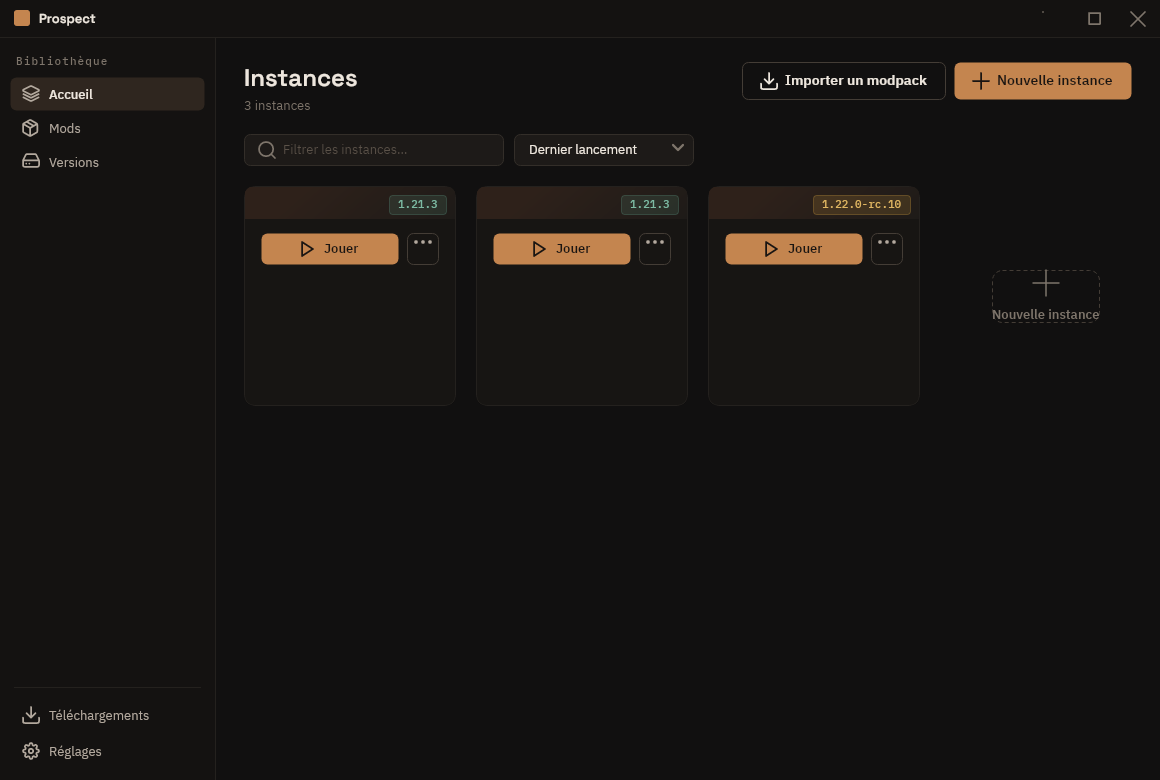
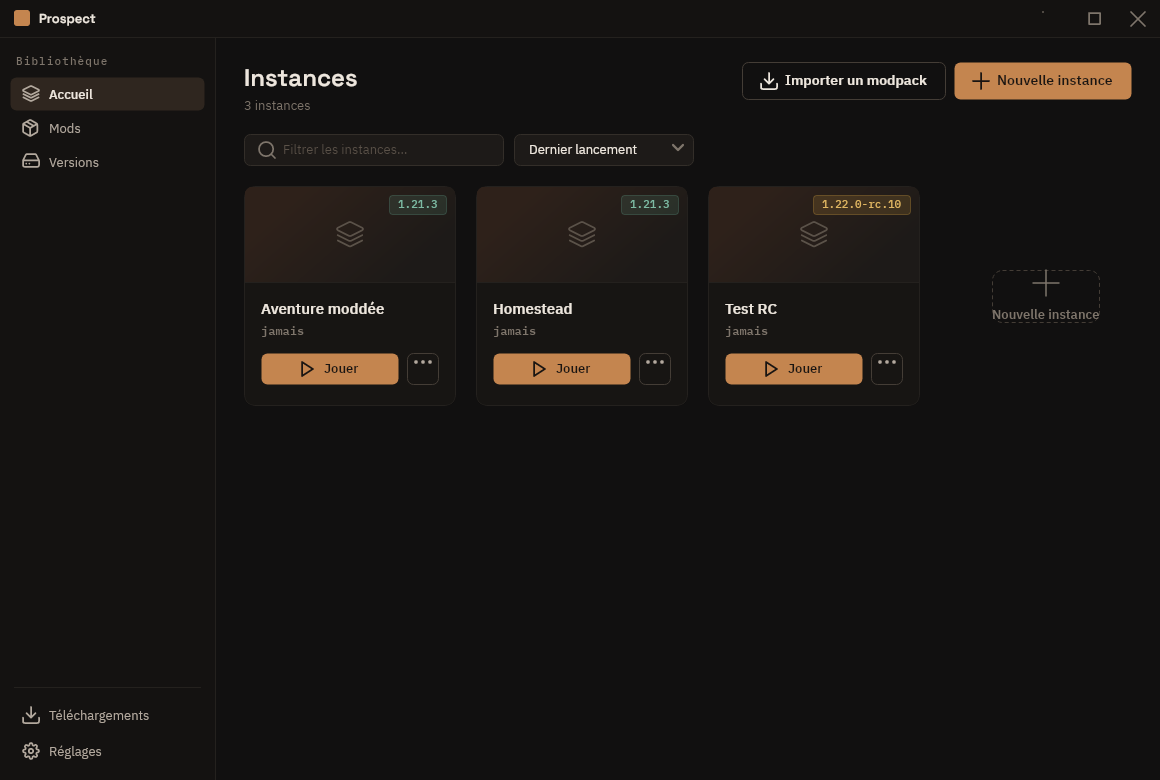
feat: theme-aware gallery with a native lightbox and refreshed captures

diff --git a/src/styles/custom.css b/src/styles/custom.css
@@ -921,3 +921,89 @@ a.card,
 :root[data-theme='light'] .pr-theme-toggle__moon {
 	display: block;
 }
+
+/* ────────────────────────────────────────────────────────────────────────
+   7. Galerie à deux thèmes et lightbox.
+   Chaque capture existe en sombre et en clair ; le CSS n'affiche que la
+   variante du thème courant (les images cachées, en lazy, ne se chargent
+   pas). Le clic ouvre le <dialog> natif : voile aux tokens, fermeture par
+   bouton, Échap ou clic sur le voile.
+   ──────────────────────────────────────────────────────────────────────── */
+
+.pr-shot__button {
+	display: block;
+	width: 100%;
+	padding: 0;
+	border: none;
+	background: transparent;
+	cursor: zoom-in;
+}
+.pr-shot__button:focus-visible {
+	outline: 2px solid var(--border-focus);
+	outline-offset: 2px;
+	border-radius: var(--radius-md);
+}
+/* Double classe volontaire : il faut battre la spécificité de `.pr-gallery img`
+   et `.pr-lightbox img` (classe + élément) posées plus haut. */
+.pr-shot .pr-shot__img--light,
+.pr-lightbox .pr-shot__img--light {
+	display: none;
+}
+:root[data-theme='light'] .pr-shot .pr-shot__img--dark,
+:root[data-theme='light'] .pr-lightbox .pr-shot__img--dark {
+	display: none;
+}
+:root[data-theme='light'] .pr-shot .pr-shot__img--light,
+:root[data-theme='light'] .pr-lightbox .pr-shot__img--light {
+	display: block;
+}
+
+.pr-lightbox {
+	padding: var(--space-6);
+	border: 1px solid var(--border-subtle);
+	border-radius: var(--radius-lg);
+	background: var(--bg-surface);
+	box-shadow: var(--elev-3);
+	max-width: min(1220px, 94vw);
+}
+.pr-lightbox::backdrop {
+	background: var(--bg-scrim);
+}
+.pr-lightbox img {
+	max-width: 100%;
+	max-height: 78vh;
+	border-radius: var(--radius-sm);
+}
+.pr-lightbox__caption {
+	margin: var(--space-5) 0 0;
+	text-align: center;
+	color: var(--text-3);
+}
+.pr-lightbox__close {
+	position: absolute;
+	top: var(--space-4);
+	right: var(--space-4);
+	display: inline-flex;
+	align-items: center;
+	justify-content: center;
+	width: 32px;
+	height: 32px;
+	padding: 0;
+	border: none;
+	border-radius: var(--radius-md);
+	background: var(--bg-surface-raised);
+	color: var(--text-2);
+	cursor: pointer;
+}
+.pr-lightbox__close:hover {
+	background: var(--bg-hover);
+	color: var(--text-1);
+}
+.pr-lightbox__close:focus-visible {
+	outline: 2px solid var(--border-focus);
+	outline-offset: 2px;
+}
+.pr-lightbox__close svg {
+	width: 16px;
+	height: 16px;
+}

diff --git a/src/i18n/landing.ts b/src/i18n/landing.ts
@@ -29,6 +29,8 @@ export interface LandingStrings {
 		eyebrow: string;
 		title: string;
 		lead: string;
+		zoom: string;
+		close: string;
 		items: { src: string; caption: string; alt: string }[];
 	};
 	download: {
@@ -98,7 +100,9 @@ export const en: LandingStrings = {
 	gallery: {
 		eyebrow: 'On screen',
 		title: 'The interface',
-		lead: 'Five screens, captured from the current working builds. The theme is mined from the same vein as the game: copper, stone, linen.',
+		lead: 'Five screens, captured from the current working builds in both themes. The theme is mined from the same vein as the game: copper, stone, linen.',
+		zoom: 'View full size:',
+		close: 'Close',
 		items: [
 			{
 				src: 'accueil.png',
@@ -194,7 +198,9 @@ export const fr: LandingStrings = {
 	gallery: {
 		eyebrow: 'En images',
 		title: 'L’interface',
-		lead: 'Cinq écrans, capturés sur les builds de travail. Le thème sort du même filon que le jeu : cuivre, pierre, lin.',
+		lead: 'Cinq écrans, capturés sur les builds de travail, dans les deux thèmes. Le thème sort du même filon que le jeu : cuivre, pierre, lin.',
+		zoom: 'Voir en grand :',
+		close: 'Fermer',
 		items: [
 			{
 				src: 'accueil.png',
